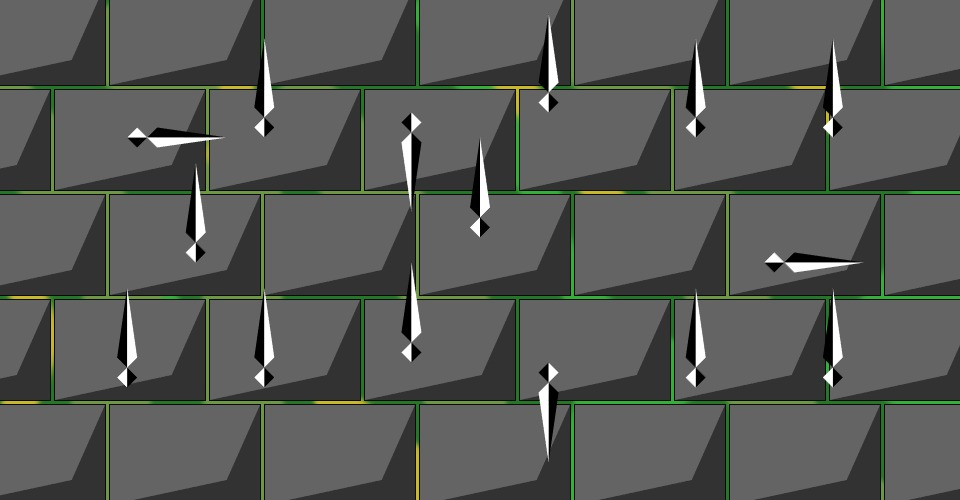
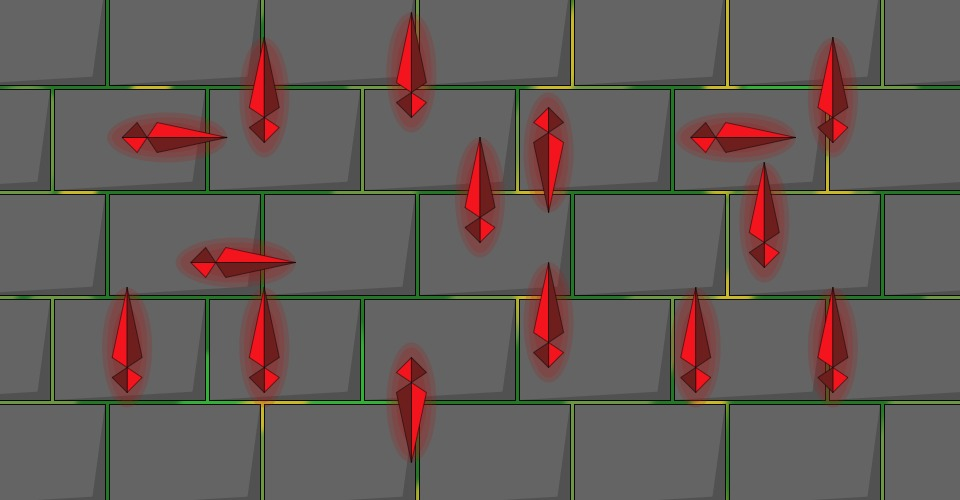
Runes01

diff --git a/clock.js b/clock.js
@@ -33,10 +33,10 @@ function draw_clock(obj) {
   let hoursToColour = map(obj.hours, 0, 23, 100, 255)
   let REhoursToColour = map(obj.hours, 0, 23, 255, 100)
 
-  let shadowHoursX = map(obj.hours, 0, 12, 0, 140)
-  let shadowHoursY = map(obj.hours, 0, 12, 0, 90)
-  let shadowHoursNegX = map(obj.hours, 13, 23, 140, 0)
-  let shadowHoursNegY = map(obj.hours, 13, 23, 90, 0)
+  let shadowHoursX = map(obj.hours, 0, 12, 0, 150)
+  let shadowHoursY = map(obj.hours, 0, 12, 0, 100)
+  let shadowHoursNegX = map(obj.hours, 13, 23, 150, 0)
+  let shadowHoursNegY = map(obj.hours, 13, 23, 100, 0)
 
   background(255)
   noStroke()
@@ -135,8 +135,8 @@ function draw_clock(obj) {
   rect(780, 425, 150, 100)
   rect(935, 425, 150, 100)
 
-  fill(50)
-  if(obj.hours < 13) { //shadows shrink
+  fill(50, 100)
+  if(obj.hours < 13) { //shadows wane
   quad(155, 5, 155, 105, 5, 105, 5+shadowHoursX, 5+shadowHoursY)
   quad(310, 5, 310, 105, 160, 105, 160+shadowHoursX, 5+shadowHoursY)
   quad(465, 5, 465, 105, 315, 105, 315+shadowHoursX, 5+shadowHoursY)
@@ -176,6 +176,7 @@ function draw_clock(obj) {
   quad(775, 425, 775, 525, 625, 525, 625+shadowHoursX, 425+shadowHoursY)
   quad(930, 425, 930, 525, 780, 525, 780+shadowHoursX, 425+shadowHoursY)
   quad(1085, 425, 1085, 525, 935, 525, 935+shadowHoursX, 425+shadowHoursY)
+
   } else { //shadows lengthen
   quad(155, 5, 155, 105, 5, 105, 5+shadowHoursNegX, 5+shadowHoursNegY)
   quad(310, 5, 310, 105, 160, 105, 160+shadowHoursNegX, 5+shadowHoursNegY)
@@ -221,9 +222,9 @@ function draw_clock(obj) {
   
   //fill(0, 0, 0)
   //text(obj.seconds, 800, 50) // for looking at
-  //text(obj.minutes, 500, 50)
-  //text(obj.hours, 200, 50)
-  //text(exactSeconds, 800, 50)
+  //text(obj.minutes, 500, 50) // observering
+  //text(obj.hours, 200, 50) // taking a gander
+  //text(exactSeconds, 800, 50) // eyeballing it
 
   push() // HOURS
   translate(127.142857, 137.5)
@@ -239,10 +240,17 @@ function draw_clock(obj) {
   if(obj.hours >= 40) {
   rotate(90)
   }
-  fill(0)
-  quad(0, 0, 10, -10, -10, -30, 0, -100)
-  fill(255)
-  quad(0, 0, -10, -10, 10, -30, 0, -100)
+  noStroke()
+  fill(170, 20, 20, 50)
+  ellipse(0, -40, 50, 120)
+  ellipse(0, -40, 40, 110)
+  ellipse(0, -40, 30, 80)
+  strokeWeight(0.5)
+  stroke(0)
+  fill(minutesToColour, 20, 30)
+  quad(0, 5, 15, -10, -15, -30, 0, -100)
+  fill(REminutesToColour, 30, 30)
+  quad(0, 5, -15, -10, 15, -30, 0, -100)
   //rect(-10, 0, 20, -100)
   pop()
 
@@ -257,10 +265,17 @@ function draw_clock(obj) {
   if(obj.hours >= 60) {
   rotate(90)
   }
-  fill(0)
-  quad(0, 0, 10, -10, -10, -30, 0, -100)
-  fill(255)
-  quad(0, 0, -10, -10, 10, -30, 0, -100)
+  noStroke()
+  fill(170, 20, 20, 50)
+  ellipse(0, -40, 50, 120)
+  ellipse(0, -40, 40, 110)
+  ellipse(0, -40, 30, 80)
+  strokeWeight(0.5)
+  stroke(0)
+  fill(minutesToColour, 20, 30)
+  quad(0, 5, 15, -10, -15, -30, 0, -100)
+  fill(REminutesToColour, 30, 30)
+  quad(0, 5, -15, -10, 15, -30, 0, -100)
   //rect(-10, 0, 20, -100)
   pop()
 
@@ -275,10 +290,17 @@ function draw_clock(obj) {
   if(obj.hours == 3 || obj.hours == 13 || obj.hours == 23 || obj.hours == 33 || obj.hours == 43 || obj.hours == 53) {
   rotate(270)
   }
-  fill(0)
-  quad(0, 0, 10, -10, -10, -30, 0, -100)
-  fill(255)
-  quad(0, 0, -10, -10, 10, -30, 0, -100)
+  noStroke()
+  fill(170, 20, 20, 50)
+  ellipse(0, -40, 50, 120)
+  ellipse(0, -40, 40, 110)
+  ellipse(0, -40, 30, 80)
+  strokeWeight(0.5)
+  stroke(0)
+  fill(minutesToColour, 20, 30)
+  quad(0, 5, 15, -10, -15, -30, 0, -100)
+  fill(REminutesToColour, 30, 30)
+  quad(0, 5, -15, -10, 15, -30, 0, -100)
   //rect(-10, 0, 20, -100)
   pop()
 
@@ -293,10 +315,17 @@ function draw_clock(obj) {
   if(obj.hours == 6 || obj.hours == 16 || obj.hours == 26 || obj.hours == 36 || obj.hours == 46 || obj.hours == 56) {
   rotate(270)
   }
-  fill(0)
-  quad(0, 0, 10, -10, -10, -30, 0, -100)
-  fill(255)
-  quad(0, 0, -10, -10, 10, -30, 0, -100)
+  noStroke()
+  fill(170, 20, 20, 50)
+  ellipse(0, -40, 50, 120)
+  ellipse(0, -40, 40, 110)
+  ellipse(0, -40, 30, 80)
+  strokeWeight(0.5)
+  stroke(0)
+  fill(minutesToColour, 20, 30)
+  quad(0, 5, 15, -10, -15, -30, 0, -100)
+  fill(REminutesToColour, 30, 30)
+  quad(0, 5, -15, -10, 15, -30, 0, -100)
   //rect(-10, 0, 20, -100)
   pop()
 
@@ -311,10 +340,17 @@ function draw_clock(obj) {
   if(obj.hours == 9 || obj.hours == 19 || obj.hours == 29 || obj.hours == 39 || obj.hours == 49 || obj.hours == 59) {
   rotate(270)
   }
-  fill(0)
-  quad(0, 0, 10, -10, -10, -30, 0, -100)
-  fill(255)
-  quad(0, 0, -10, -10, 10, -30, 0, -100)
+  noStroke()
+  fill(170, 20, 20, 50)
+  ellipse(0, -40, 50, 120)
+  ellipse(0, -40, 40, 110)
+  ellipse(0, -40, 30, 80)
+  strokeWeight(0.5)
+  stroke(0)
+  fill(minutesToColour, 20, 30)
+  quad(0, 5, 15, -10, -15, -30, 0, -100)
+  fill(REminutesToColour, 30, 30)
+  quad(0, 5, -15, -10, 15, -30, 0, -100)
   //rect(-10, 0, 20, -100)
   pop()
 
@@ -332,10 +368,17 @@ function draw_clock(obj) {
   if(obj.minutes >= 40) {
   rotate(90)
   }
-  fill(0)
-  quad(0, 0, 10, -10, -10, -30, 0, -100)
-  fill(255)
-  quad(0, 0, -10, -10, 10, -30, 0, -100)
+  noStroke()
+  fill(170, 20, 20, 50)
+  ellipse(0, -40, 50, 120)
+  ellipse(0, -40, 40, 110)
+  ellipse(0, -40, 30, 80)
+  strokeWeight(0.5)
+  stroke(0)
+  fill(minutesToColour, 20, 30)
+  quad(0, 5, 15, -10, -15, -30, 0, -100)
+  fill(REminutesToColour, 30, 30)
+  quad(0, 5, -15, -10, 15, -30, 0, -100)
   //rect(-10, 0, 20, -100)
   pop()
 
@@ -350,10 +393,17 @@ function draw_clock(obj) {
   if(obj.minutes >= 60) {
   rotate(90)
   }
-  fill(0)
-  quad(0, 0, 10, -10, -10, -30, 0, -100)
-  fill(255)
-  quad(0, 0, -10, -10, 10, -30, 0, -100)
+  noStroke()
+  fill(170, 20, 20, 50)
+  ellipse(0, -40, 50, 120)
+  ellipse(0, -40, 40, 110)
+  ellipse(0, -40, 30, 80)
+  strokeWeight(0.5)
+  stroke(0)
+  fill(minutesToColour, 20, 30)
+  quad(0, 5, 15, -10, -15, -30, 0, -100)
+  fill(REminutesToColour, 30, 30)
+  quad(0, 5, -15, -10, 15, -30, 0, -100)
   //rect(-10, 0, 20, -100)
   pop()
 
@@ -368,10 +418,17 @@ function draw_clock(obj) {
   if(obj.minutes == 3 || obj.minutes == 13 || obj.minutes == 23 || obj.minutes == 33 || obj.minutes == 43 || obj.minutes == 53) {
   rotate(270)
   }
-  fill(0)
-  quad(0, 0, 10, -10, -10, -30, 0, -100)
-  fill(255)
-  quad(0, 0, -10, -10, 10, -30, 0, -100)
+  noStroke()
+  fill(170, 20, 20, 50)
+  ellipse(0, -40, 50, 120)
+  ellipse(0, -40, 40, 110)
+  ellipse(0, -40, 30, 80)
+  strokeWeight(0.5)
+  stroke(0)
+  fill(minutesToColour, 20, 30)
+  quad(0, 5, 15, -10, -15, -30, 0, -100)
+  fill(REminutesToColour, 30, 30)
+  quad(0, 5, -15, -10, 15, -30, 0, -100)
   //rect(-10, 0, 20, -100)
   pop()
   
@@ -386,10 +443,17 @@ function draw_clock(obj) {
   if(obj.minutes == 6 || obj.minutes == 16 || obj.minutes == 26 || obj.minutes == 36 || obj.minutes == 46 || obj.minutes == 56) {
   rotate(270)
   }
-  fill(0)
-  quad(0, 0, 10, -10, -10, -30, 0, -100)
-  fill(255)
-  quad(0, 0, -10, -10, 10, -30, 0, -100)
+  noStroke()
+  fill(170, 20, 20, 50)
+  ellipse(0, -40, 50, 120)
+  ellipse(0, -40, 40, 110)
+  ellipse(0, -40, 30, 80)
+  strokeWeight(0.5)
+  stroke(0)
+  fill(minutesToColour, 20, 30)
+  quad(0, 5, 15, -10, -15, -30, 0, -100)
+  fill(REminutesToColour, 30, 30)
+  quad(0, 5, -15, -10, 15, -30, 0, -100)
   //rect(-10, 0, 20, -100)
   pop()
 
@@ -404,10 +468,17 @@ function draw_clock(obj) {
   if(obj.minutes == 9 || obj.minutes == 19 || obj.minutes == 29 || obj.minutes == 39 || obj.minutes == 49 || obj.minutes == 59) {
   rotate(270)
   }
-  fill(0)
-  quad(0, 0, 10, -10, -10, -30, 0, -100)
-  fill(255)
-  quad(0, 0, -10, -10, 10, -30, 0, -100)
+  noStroke()
+  fill(170, 20, 20, 50)
+  ellipse(0, -40, 50, 120)
+  ellipse(0, -40, 40, 110)
+  ellipse(0, -40, 30, 80)
+  strokeWeight(0.5)
+  stroke(0)
+  fill(minutesToColour, 20, 30)
+  quad(0, 5, 15, -10, -15, -30, 0, -100)
+  fill(REminutesToColour, 30, 30)
+  quad(0, 5, -15, -10, 15, -30, 0, -100)
   //rect(-10, 0, 20, -100)
   pop()
 
@@ -425,10 +496,17 @@ function draw_clock(obj) {
   if(obj.seconds >= 40) {
   rotate(90)
   }
-  fill(0)
-  quad(0, 0, 10, -10, -10, -30, 0, -100)
-  fill(255)
-  quad(0, 0, -10, -10, 10, -30, 0, -100)
+  noStroke()
+  fill(170, 20, 20, 50)
+  ellipse(0, -40, 50, 120)
+  ellipse(0, -40, 40, 110)
+  ellipse(0, -40, 30, 80)
+  strokeWeight(0.5)
+  stroke(0)
+  fill(minutesToColour, 20, 30)
+  quad(0, 5, 15, -10, -15, -30, 0, -100)
+  fill(REminutesToColour, 30, 30)
+  quad(0, 5, -15, -10, 15, -30, 0, -100)
   //rect(-10, 0, 20, -100)
   pop()
 
@@ -443,10 +521,17 @@ function draw_clock(obj) {
   if(obj.seconds >= 60) {
   rotate(90)
   }
-  fill(0)
-  quad(0, 0, 10, -10, -10, -30, 0, -100)
-  fill(255)
-  quad(0, 0, -10, -10, 10, -30, 0, -100)
+  noStroke()
+  fill(170, 20, 20, 50)
+  ellipse(0, -40, 50, 120)
+  ellipse(0, -40, 40, 110)
+  ellipse(0, -40, 30, 80)
+  strokeWeight(0.5)
+  stroke(0)
+  fill(minutesToColour, 20, 30)
+  quad(0, 5, 15, -10, -15, -30, 0, -100)
+  fill(REminutesToColour, 30, 30)
+  quad(0, 5, -15, -10, 15, -30, 0, -100)
   //rect(-10, 0, 20, -100)
   pop()
 
@@ -461,10 +546,17 @@ function draw_clock(obj) {
   if(obj.seconds == 3 || obj.seconds == 13 || obj.seconds == 23 || obj.seconds == 33 || obj.seconds == 43 || obj.seconds == 53) {
   rotate(270)
   }
-  fill(0)
-  quad(0, 0, 10, -10, -10, -30, 0, -100)
-  fill(255)
-  quad(0, 0, -10, -10, 10, -30, 0, -100)
+  noStroke()
+  fill(170, 20, 20, 50)
+  ellipse(0, -40, 50, 120)
+  ellipse(0, -40, 40, 110)
+  ellipse(0, -40, 30, 80)
+  strokeWeight(0.5)
+  stroke(0)
+  fill(minutesToColour, 20, 30)
+  quad(0, 5, 15, -10, -15, -30, 0, -100)
+  fill(REminutesToColour, 30, 30)
+  quad(0, 5, -15, -10, 15, -30, 0, -100)
   //rect(-10, 0, 20, -100)
   pop()
 
@@ -479,10 +571,17 @@ function draw_clock(obj) {
   if(obj.seconds == 6 || obj.seconds == 16 || obj.seconds == 26 || obj.seconds == 36 || obj.seconds == 46 || obj.seconds == 56) {
   rotate(270)
   }
-  fill(0)
-  quad(0, 0, 10, -10, -10, -30, 0, -100)
-  fill(255)
-  quad(0, 0, -10, -10, 10, -30, 0, -100)
+  noStroke()
+  fill(170, 20, 20, 50)
+  ellipse(0, -40, 50, 120)
+  ellipse(0, -40, 40, 110)
+  ellipse(0, -40, 30, 80)
+  strokeWeight(0.5)
+  stroke(0)
+  fill(minutesToColour, 20, 30)
+  quad(0, 5, 15, -10, -15, -30, 0, -100)
+  fill(REminutesToColour, 30, 30)
+  quad(0, 5, -15, -10, 15, -30, 0, -100)
   //rect(-10, 0, 20, -100)
   pop()
 
@@ -497,10 +596,17 @@ function draw_clock(obj) {
   if(obj.seconds == 9 || obj.seconds == 19 || obj.seconds == 29 || obj.seconds == 39 || obj.seconds == 49 || obj.seconds == 59) {
   rotate(270)
   }
-  fill(0)
-  quad(0, 0, 10, -10, -10, -30, 0, -100)
-  fill(255)
-  quad(0, 0, -10, -10, 10, -30, 0, -100)
+  noStroke()
+  fill(170, 20, 20, 50)
+  ellipse(0, -40, 50, 120)
+  ellipse(0, -40, 40, 110)
+  ellipse(0, -40, 30, 80)
+  strokeWeight(0.5)
+  stroke(0)
+  fill(minutesToColour, 20, 30)
+  quad(0, 5, 15, -10, -15, -30, 0, -100)
+  fill(REminutesToColour, 30, 30)
+  quad(0, 5, -15, -10, 15, -30, 0, -100)
   //rect(-10, 0, 20, -100)
   pop()
 

diff --git a/README.md b/README.md
@@ -39,3 +39,8 @@ DungeonBrick01:
 
 Runes00:
     replaced the black bars acting as my hands with squiggly runes made of two mirrored quads
+
+Runes01:
+    Gave the runes a red colour that changes with minutes, and a glow that is cast onto the bricks behind them.
+
+    changed the opacity of the shadows over the bricks.
